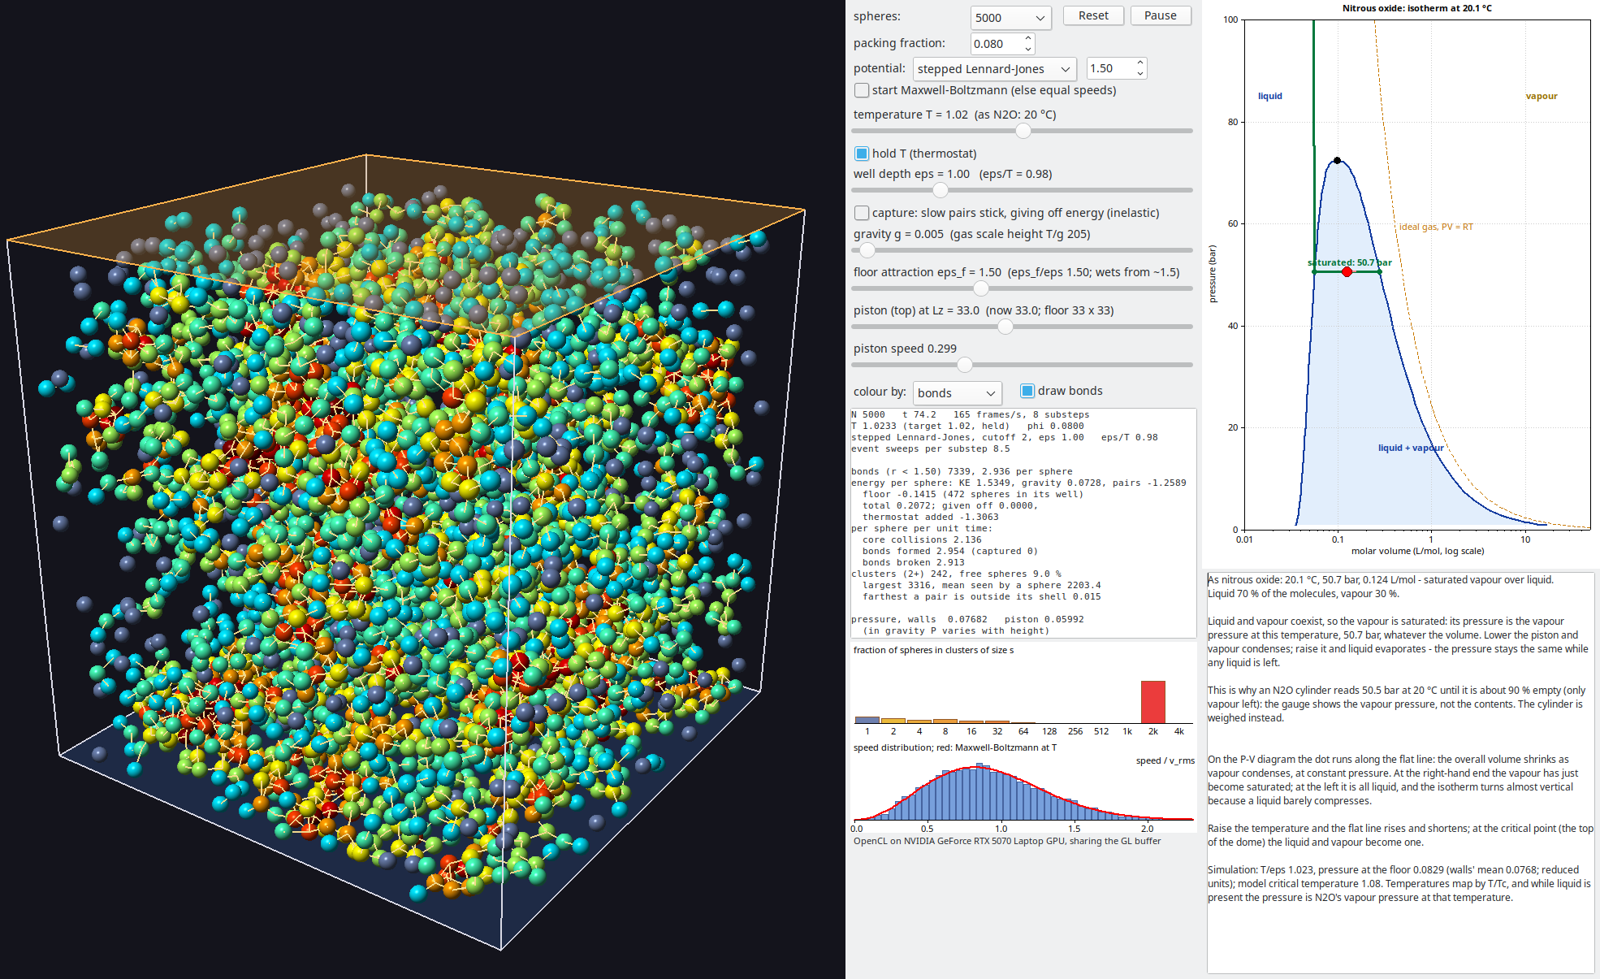
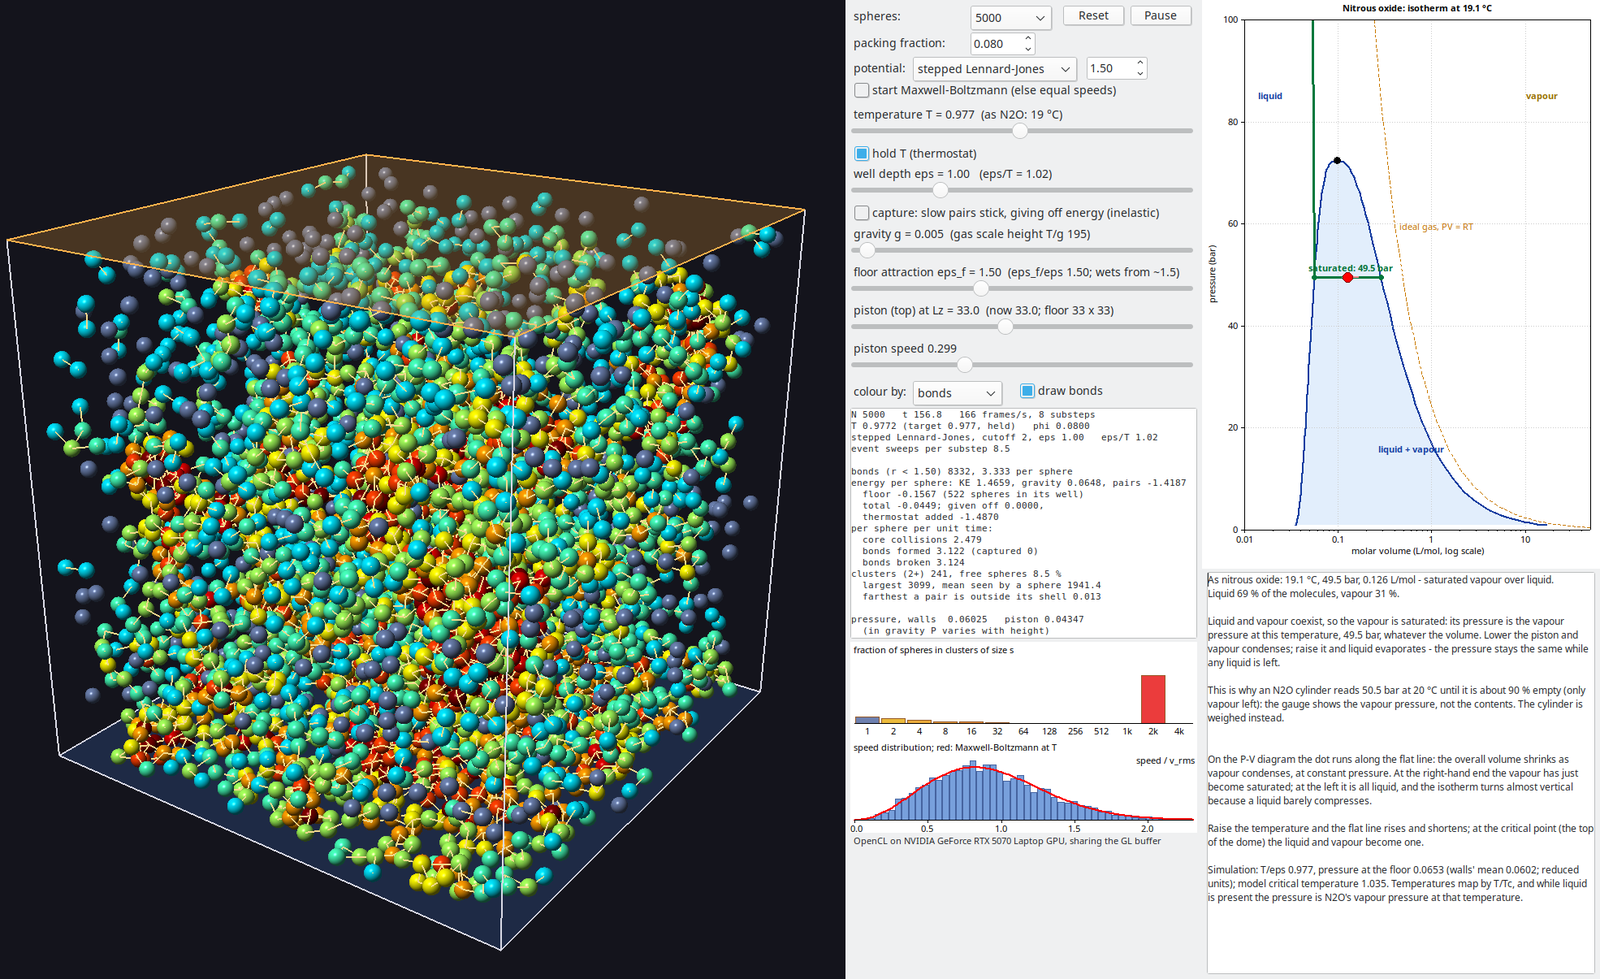
N2O: retake the vapour and cylinder screenshots with the corrected mapping
The unsaturated start now reads -35.6 °C and 7.2 bar (PV/RT 0.96). The
cylinder shot is retaken at T/eps 0.977, 19.1 °C, the nearest slider
step to 20 °C under Tc 1.035 (the old T/eps 1.023 is now 33 °C): liquid
and vapour at 49.5 bar, 69 % liquid. All three screenshots are current,
so the captions drop the note about old panels.

diff --git a/N2O/README.md b/N2O/README.md
@@ -13,16 +13,11 @@ however far the piston goes. This is the difference between an ideal gas
 and a saturated vapour, and the reason a cylinder gauge reads the vapour
 pressure, not the contents.
 
-The first and third screenshots predate the critical-temperature correction
-(model Tc 1.035, not 1.08), so their panels show the old temperatures and
-pressures. The captions give what the same states read as now.
-
 ![An unsaturated N2O vapour](../docs/n2o-vapour.png)
 
 *The default start, part-way through a slow compression: 5,000 spheres as a
-dilute vapour at T/ε 0.794, −35.6 °C as N₂O (the panel shows −45.5 °C),
-still unsaturated. The trail follows the dashed
-ideal-gas isotherm.*
+dilute vapour at T/ε 0.794, −35.6 °C as N₂O, at 7.2 bar and still
+unsaturated (PV/RT = 0.96). The trail follows the dashed ideal-gas isotherm.*
 
 ![The same after compression: saturated vapour over liquid](../docs/n2o-saturated.png)
 
@@ -31,12 +26,12 @@ formed on the floor, and the dot is on the flat line at 10.9 bar, N₂O's
 vapour pressure at −35.6 °C, having run along it to 54 % liquid. The loop above
 the dome is a supersaturated vapour: it ran past the saturation point while droplets nucleated, then dropped onto the line.*
 
-![Near the critical point: liquid and vapour](../docs/n2o-cylinder.png)
+![At 19 °C: the cylinder's state](../docs/n2o-cylinder.png)
 
-*At T/ε 1.023, now 32.9 °C (the panel shows 20.1 °C), and a higher packing
-fraction: liquid and vapour at 67 bar (the panel shows 50.7). This close to
-the critical point (36.4 °C) the flat part of the isotherm is short and the
-liquid and vapour look much alike. A cylinder at 20 °C is T/ε 0.98.*
+*At 19.1 °C (T/ε 0.977) and a higher packing fraction (0.08): liquid and
+vapour at 49.5 bar, 69 % liquid, as in a cylinder. Near the critical point
+(36.4 °C) the flat part of the isotherm is short and the liquid and vapour
+look much alike.*
 
 ## Build and run
 
